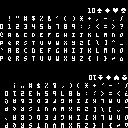
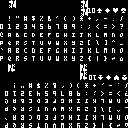
describe font solution and add new glyphs

diff --git a/libs/common/src/inner_common.rs b/libs/common/src/inner_common.rs
@@ -410,22 +410,22 @@ pub const FONT_FLIP: u8 = 128;
 
 #[cfg_attr(rustfmt, rustfmt_skip)]
 pub const FONT: [u8; FONT_LENGTH] = [
-0, 0, 0, 0, 0, 0, 0, 0, 0, 0, 0, 0, 0, 0, 0, 0, 0, 0, 0, 0, 0, 0, 0, 0, 0, 0, 0, 0, 0, 0, 0, 0, 0, 0, 0, 0, 0, 0, 0, 0, 0, 0, 0, 0, 0, 0, 0, 0, 0, 0, 0, 0, 0, 0, 0, 0, 0, 0, 0, 0, 0, 0, 0, 0, 0, 0, 0, 0, 0, 0, 0, 0, 0, 0, 0, 0, 0, 0, 0, 0, 0, 0, 0, 0, 0, 0, 0, 0, 0, 0, 0, 0, 0, 0, 0, 0, 0, 0, 0, 0, 0, 0, 0, 0, 0, 0, 0, 0, 0, 0, 0, 0, 0, 0, 0, 0, 0, 0, 0, 0, 0, 0, 0, 0, 0, 0, 0, 0,
-0, 0, 0, 0, 0, 0, 0, 0, 0, 0, 0, 0, 0, 0, 0, 0, 0, 0, 0, 0, 0, 0, 0, 0, 0, 0, 0, 0, 0, 0, 0, 0, 0, 0, 0, 0, 0, 0, 0, 0, 0, 0, 0, 0, 0, 0, 0, 0, 0, 0, 0, 0, 0, 0, 0, 0, 0, 0, 0, 0, 0, 0, 0, 0, 0, 0, 0, 0, 0, 0, 0, 0, 0, 0, 0, 0, 0, 0, 0, 0, 0, 0, 0, 0, 0, 0, 0, 0, 0, 0, 0, 0, 0, 0, 0, 0, 0, 0, 0, 0, 0, 0, 0, 0, 0, 0, 0, 0, 0, 0, 0, 0, 0, 0, 0, 0, 0, 0, 0, 0, 0, 0, 0, 0, 0, 0, 0, 0,
-0, 0, 0, 0, 0, 0, 0, 0, 0, 0, 0, 0, 0, 0, 0, 0, 0, 0, 0, 0, 0, 0, 0, 0, 0, 0, 0, 0, 0, 0, 0, 0, 0, 0, 0, 0, 0, 0, 0, 0, 0, 0, 0, 0, 0, 0, 0, 0, 0, 0, 0, 0, 0, 0, 0, 0, 0, 0, 0, 0, 0, 0, 0, 0, 0, 0, 0, 0, 0, 0, 0, 0, 0, 0, 0, 0, 0, 0, 0, 0, 0, 0, 0, 0, 0, 0, 0, 0, 0, 0, 0, 0, 0, 0, 0, 0, 0, 0, 0, 0, 0, 0, 0, 0, 0, 0, 0, 0, 0, 0, 0, 0, 0, 0, 0, 0, 0, 0, 0, 0, 0, 0, 0, 0, 0, 0, 0, 0,
-0, 0, 0, 0, 0, 0, 0, 0, 0, 0, 0, 0, 0, 0, 0, 0, 0, 0, 0, 0, 0, 0, 0, 0, 0, 0, 0, 0, 0, 0, 0, 0, 0, 0, 0, 0, 0, 0, 0, 0, 0, 0, 0, 0, 0, 0, 0, 0, 0, 0, 0, 0, 0, 0, 0, 0, 0, 0, 0, 0, 0, 0, 0, 0, 0, 0, 0, 0, 0, 0, 0, 0, 0, 0, 0, 0, 0, 0, 0, 0, 0, 0, 0, 0, 0, 0, 0, 0, 0, 0, 0, 0, 0, 0, 0, 0, 0, 0, 0, 0, 0, 0, 0, 0, 0, 0, 0, 0, 0, 0, 0, 0, 0, 0, 0, 0, 0, 0, 0, 0, 0, 0, 0, 0, 0, 0, 0, 0,
-0, 0, 0, 0, 0, 0, 0, 0, 0, 0, 0, 0, 0, 0, 0, 0, 0, 0, 0, 0, 0, 0, 0, 0, 0, 0, 0, 0, 0, 0, 0, 0, 0, 0, 0, 0, 0, 0, 0, 0, 0, 0, 0, 0, 0, 0, 0, 0, 0, 0, 0, 0, 0, 0, 0, 0, 0, 0, 0, 0, 0, 0, 0, 0, 0, 0, 0, 0, 0, 0, 0, 0, 0, 0, 0, 0, 0, 0, 0, 0, 0, 0, 0, 0, 0, 0, 0, 0, 0, 0, 0, 0, 0, 0, 0, 0, 0, 0, 0, 0, 0, 0, 0, 0, 0, 0, 0, 0, 0, 0, 0, 0, 0, 0, 0, 0, 0, 0, 0, 0, 0, 0, 0, 0, 0, 0, 0, 0,
-0, 0, 0, 0, 0, 0, 0, 0, 0, 0, 0, 0, 0, 0, 0, 0, 0, 0, 0, 0, 0, 0, 0, 0, 0, 0, 0, 0, 0, 0, 0, 0, 0, 0, 0, 0, 0, 0, 0, 0, 0, 0, 0, 0, 0, 0, 0, 0, 0, 0, 0, 0, 0, 0, 0, 0, 0, 0, 0, 0, 0, 0, 0, 0, 0, 0, 0, 0, 0, 0, 0, 0, 0, 0, 0, 0, 0, 0, 0, 0, 0, 0, 0, 0, 0, 0, 0, 0, 0, 0, 0, 0, 0, 0, 0, 0, 0, 0, 0, 0, 0, 0, 0, 0, 0, 0, 0, 0, 0, 0, 0, 0, 0, 0, 0, 0, 0, 0, 0, 0, 0, 0, 0, 0, 0, 0, 0, 0,
-0, 0, 0, 0, 0, 0, 0, 0, 0, 0, 0, 0, 0, 0, 0, 0, 0, 0, 0, 0, 0, 0, 0, 0, 0, 0, 0, 0, 0, 0, 0, 0, 0, 0, 0, 0, 0, 0, 0, 0, 0, 0, 0, 0, 0, 0, 0, 0, 0, 0, 0, 0, 0, 0, 0, 0, 0, 0, 0, 0, 0, 0, 0, 0, 0, 0, 0, 0, 0, 0, 0, 0, 0, 0, 0, 0, 0, 0, 0, 0, 0, 0, 0, 0, 0, 0, 0, 0, 0, 0, 0, 0, 0, 0, 0, 0, 0, 0, 0, 0, 0, 0, 0, 0, 0, 0, 0, 0, 0, 0, 0, 0, 0, 0, 0, 0, 0, 0, 0, 0, 0, 0, 0, 0, 0, 0, 0, 0,
-0, 0, 0, 0, 0, 0, 0, 0, 0, 0, 0, 0, 0, 0, 0, 0, 0, 0, 0, 0, 0, 0, 0, 0, 0, 0, 0, 0, 0, 0, 0, 0, 0, 0, 0, 0, 0, 0, 0, 0, 0, 0, 0, 0, 0, 0, 0, 0, 0, 0, 0, 0, 0, 0, 0, 0, 0, 0, 0, 0, 0, 0, 0, 0, 0, 0, 0, 0, 0, 0, 0, 0, 0, 0, 0, 0, 0, 0, 0, 0, 0, 0, 0, 0, 0, 0, 0, 0, 0, 0, 0, 0, 0, 0, 0, 0, 0, 0, 0, 0, 0, 0, 0, 0, 0, 0, 0, 0, 0, 0, 0, 0, 0, 0, 0, 0, 0, 0, 0, 0, 0, 0, 0, 0, 0, 0, 0, 0,
-0, 0, 0, 0, 0, 0, 0, 0, 0, 0, 0, 0, 0, 0, 0, 0, 0, 0, 0, 0, 0, 0, 0, 0, 0, 0, 0, 0, 0, 0, 0, 0, 0, 0, 0, 0, 0, 0, 0, 0, 0, 0, 0, 0, 0, 0, 0, 0, 0, 0, 0, 0, 0, 0, 0, 0, 0, 0, 0, 0, 0, 0, 0, 0, 0, 0, 0, 0, 0, 0, 0, 0, 0, 0, 0, 0, 0, 0, 0, 0, 0, 0, 0, 0, 0, 0, 0, 0, 6, 6, 0, 0, 6, 6, 6, 0, 0, 0, 0, 6, 0, 0, 0, 0, 0, 0, 0, 6, 0, 0, 0, 0, 0, 6, 6, 0, 6, 6, 0, 0, 0, 0, 6, 6, 6, 0, 0, 0,
-0, 0, 0, 0, 0, 0, 0, 0, 0, 0, 0, 0, 0, 0, 0, 0, 0, 0, 0, 0, 0, 0, 0, 0, 0, 0, 0, 0, 0, 0, 0, 0, 0, 0, 0, 0, 0, 0, 0, 0, 0, 0, 0, 0, 0, 0, 0, 0, 0, 0, 0, 0, 0, 0, 0, 0, 0, 0, 0, 0, 0, 0, 0, 0, 0, 0, 0, 0, 0, 0, 0, 0, 0, 0, 0, 0, 0, 0, 0, 0, 0, 0, 0, 0, 0, 0, 0, 0, 0, 6, 0, 0, 6, 0, 6, 0, 0, 0, 6, 6, 6, 0, 0, 0, 0, 0, 6, 6, 6, 0, 0, 0, 0, 6, 6, 6, 6, 6, 0, 0, 0, 6, 6, 6, 6, 6, 0, 0,
-0, 0, 0, 0, 0, 0, 0, 0, 0, 0, 0, 0, 0, 0, 0, 0, 0, 0, 0, 0, 0, 0, 0, 0, 0, 0, 0, 0, 0, 0, 0, 0, 0, 0, 0, 0, 0, 0, 0, 0, 0, 0, 0, 0, 0, 0, 0, 0, 0, 0, 0, 0, 0, 0, 0, 0, 0, 0, 0, 0, 0, 0, 0, 0, 0, 0, 0, 0, 0, 0, 0, 0, 0, 0, 0, 0, 0, 0, 0, 0, 0, 0, 0, 0, 0, 0, 0, 0, 0, 6, 0, 0, 6, 0, 6, 0, 0, 6, 6, 6, 6, 6, 0, 0, 0, 6, 6, 6, 6, 6, 0, 0, 0, 6, 6, 6, 6, 6, 0, 0, 0, 6, 6, 0, 6, 6, 0, 0,
-0, 0, 0, 0, 0, 0, 0, 0, 0, 0, 0, 0, 0, 0, 0, 0, 0, 0, 0, 0, 0, 0, 0, 0, 0, 0, 0, 0, 0, 0, 0, 0, 0, 0, 0, 0, 0, 0, 0, 0, 0, 0, 0, 0, 0, 0, 0, 0, 0, 0, 0, 0, 0, 0, 0, 0, 0, 0, 0, 0, 0, 0, 0, 0, 0, 0, 0, 0, 0, 0, 0, 0, 0, 0, 0, 0, 0, 0, 0, 0, 0, 0, 0, 0, 0, 0, 0, 0, 0, 6, 0, 0, 6, 0, 6, 0, 0, 0, 0, 6, 0, 0, 0, 0, 0, 0, 6, 6, 6, 0, 0, 0, 0, 0, 6, 6, 6, 0, 0, 0, 0, 0, 0, 6, 0, 0, 0, 0,
-0, 0, 0, 0, 0, 0, 0, 0, 0, 0, 0, 0, 0, 0, 0, 0, 0, 0, 0, 0, 0, 0, 0, 0, 0, 0, 0, 0, 0, 0, 0, 0, 0, 0, 0, 0, 0, 0, 0, 0, 0, 0, 0, 0, 0, 0, 0, 0, 0, 0, 0, 0, 0, 0, 0, 0, 0, 0, 0, 0, 0, 0, 0, 0, 0, 0, 0, 0, 0, 0, 0, 0, 0, 0, 0, 0, 0, 0, 0, 0, 0, 0, 0, 0, 0, 0, 0, 0, 6, 6, 6, 0, 6, 6, 6, 0, 0, 0, 6, 6, 6, 0, 0, 0, 0, 0, 0, 6, 0, 0, 0, 0, 0, 0, 0, 6, 0, 0, 0, 0, 0, 0, 6, 6, 6, 0, 0, 0,
-0, 0, 0, 0, 0, 0, 0, 0, 0, 0, 0, 0, 0, 0, 0, 0, 0, 0, 0, 0, 0, 0, 0, 0, 0, 0, 0, 0, 0, 0, 0, 0, 0, 0, 0, 0, 0, 0, 0, 0, 0, 0, 0, 0, 0, 0, 0, 0, 0, 0, 0, 0, 0, 0, 0, 0, 0, 0, 0, 0, 0, 0, 0, 0, 0, 0, 0, 0, 0, 0, 0, 0, 0, 0, 0, 0, 0, 0, 0, 0, 0, 0, 0, 0, 0, 0, 0, 0, 0, 0, 0, 0, 0, 0, 0, 0, 0, 0, 0, 0, 0, 0, 0, 0, 0, 0, 0, 0, 0, 0, 0, 0, 0, 0, 0, 0, 0, 0, 0, 0, 0, 0, 0, 0, 0, 0, 0, 0,
-0, 0, 0, 0, 0, 0, 0, 0, 0, 0, 0, 0, 0, 0, 0, 0, 0, 0, 0, 0, 0, 0, 0, 0, 0, 0, 0, 0, 0, 0, 0, 0, 0, 0, 0, 0, 0, 0, 0, 0, 0, 0, 0, 0, 0, 0, 0, 0, 0, 0, 0, 0, 0, 0, 0, 0, 0, 0, 0, 0, 0, 0, 0, 0, 0, 0, 0, 0, 0, 0, 0, 0, 0, 0, 0, 0, 0, 0, 0, 0, 0, 0, 0, 0, 0, 0, 0, 0, 0, 0, 0, 0, 0, 0, 0, 0, 0, 0, 0, 0, 0, 0, 0, 0, 0, 0, 0, 0, 0, 0, 0, 0, 0, 0, 0, 0, 0, 0, 0, 0, 0, 0, 0, 0, 0, 0, 0, 0,
-0, 0, 0, 0, 0, 0, 0, 0, 0, 0, 0, 0, 0, 0, 0, 0, 0, 0, 0, 0, 0, 0, 0, 0, 0, 0, 0, 0, 0, 0, 0, 0, 0, 0, 0, 0, 0, 0, 0, 0, 0, 0, 0, 0, 0, 0, 0, 0, 0, 0, 0, 0, 0, 0, 0, 0, 0, 0, 0, 0, 0, 0, 0, 0, 0, 0, 0, 0, 0, 0, 0, 0, 0, 0, 0, 0, 0, 0, 0, 0, 0, 0, 0, 0, 0, 0, 0, 0, 0, 0, 0, 0, 0, 0, 0, 0, 0, 0, 0, 0, 0, 0, 0, 0, 0, 0, 0, 0, 0, 0, 0, 0, 0, 0, 0, 0, 0, 0, 0, 0, 0, 0, 0, 0, 0, 0, 0, 0,
+0, 0, 0, 0, 0, 0, 0, 0, 0, 0, 0, 6, 0, 0, 0, 6, 0, 0, 0, 0, 0, 0, 0, 0, 0, 0, 0, 0, 0, 0, 0, 0, 0, 0, 0, 0, 0, 0, 0, 0, 0, 0, 0, 0, 0, 0, 0, 0, 0, 0, 0, 0, 0, 0, 0, 0, 0, 0, 0, 0, 0, 0, 0, 0, 0, 0, 0, 0, 0, 0, 0, 0, 0, 0, 0, 0, 0, 0, 0, 0, 0, 0, 0, 6, 0, 0, 0, 6, 0, 0, 0, 0, 0, 0, 0, 0, 0, 0, 0, 0, 0, 0, 0, 0, 0, 0, 0, 0, 0, 0, 0, 0, 0, 0, 0, 0, 0, 0, 0, 0, 0, 0, 0, 0, 0, 0, 0, 0,
+0, 0, 0, 0, 0, 0, 0, 0, 0, 6, 6, 6, 6, 0, 6, 6, 0, 0, 0, 0, 0, 0, 0, 0, 0, 0, 0, 0, 0, 0, 0, 0, 0, 0, 0, 0, 0, 0, 0, 0, 0, 0, 0, 0, 0, 0, 0, 0, 0, 0, 0, 0, 0, 0, 0, 0, 0, 0, 0, 0, 0, 0, 0, 0, 0, 0, 0, 0, 0, 0, 0, 0, 0, 0, 0, 0, 0, 0, 0, 0, 0, 6, 6, 6, 6, 0, 6, 6, 0, 0, 0, 0, 0, 0, 0, 0, 0, 0, 0, 0, 0, 0, 0, 0, 0, 0, 0, 0, 0, 0, 0, 0, 0, 0, 0, 0, 0, 0, 0, 0, 0, 0, 0, 0, 0, 0, 0, 0,
+0, 0, 0, 0, 0, 0, 0, 0, 0, 6, 6, 6, 6, 0, 6, 6, 0, 0, 0, 0, 0, 0, 0, 0, 0, 0, 0, 0, 0, 0, 0, 0, 0, 0, 0, 0, 0, 0, 0, 0, 0, 0, 0, 0, 0, 0, 0, 0, 0, 0, 0, 0, 0, 0, 0, 0, 0, 0, 0, 0, 0, 0, 0, 0, 0, 0, 0, 0, 0, 0, 0, 0, 0, 0, 0, 0, 0, 0, 0, 0, 0, 6, 6, 6, 6, 0, 6, 6, 0, 0, 0, 0, 0, 0, 0, 0, 0, 0, 0, 0, 0, 0, 0, 0, 0, 0, 0, 0, 0, 0, 0, 0, 0, 0, 0, 0, 0, 0, 0, 0, 0, 0, 0, 0, 0, 0, 0, 0,
+0, 0, 0, 0, 0, 0, 0, 0, 0, 0, 0, 6, 6, 0, 6, 6, 0, 0, 0, 0, 0, 0, 0, 0, 0, 0, 0, 0, 0, 0, 0, 0, 0, 0, 0, 0, 0, 0, 0, 0, 0, 0, 0, 0, 0, 0, 0, 0, 0, 0, 0, 0, 0, 0, 0, 0, 0, 0, 0, 0, 0, 0, 0, 0, 0, 0, 0, 0, 0, 0, 0, 0, 0, 0, 0, 0, 0, 0, 0, 0, 0, 0, 0, 6, 6, 0, 6, 6, 0, 0, 0, 0, 0, 0, 0, 0, 0, 0, 0, 0, 0, 0, 0, 0, 0, 0, 0, 0, 0, 0, 0, 0, 0, 0, 0, 0, 0, 0, 0, 0, 0, 0, 0, 0, 0, 0, 0, 0,
+0, 0, 0, 0, 0, 0, 0, 0, 0, 0, 0, 6, 0, 6, 6, 6, 0, 0, 0, 0, 0, 0, 0, 0, 0, 0, 0, 0, 0, 0, 0, 0, 0, 0, 0, 0, 0, 0, 0, 0, 0, 0, 0, 0, 0, 0, 0, 0, 0, 0, 0, 0, 0, 0, 0, 0, 0, 0, 0, 0, 0, 0, 0, 0, 0, 0, 0, 0, 0, 0, 0, 0, 0, 0, 0, 0, 0, 0, 0, 0, 0, 0, 0, 6, 0, 6, 6, 6, 0, 0, 0, 0, 0, 0, 0, 0, 0, 0, 0, 0, 0, 0, 0, 0, 0, 0, 0, 0, 0, 0, 0, 0, 0, 0, 0, 0, 0, 0, 0, 0, 0, 0, 0, 0, 0, 0, 0, 0,
+0, 0, 0, 0, 0, 0, 0, 0, 0, 6, 0, 6, 0, 6, 6, 6, 0, 0, 0, 0, 0, 0, 0, 0, 0, 0, 0, 0, 0, 0, 0, 0, 0, 0, 0, 0, 0, 0, 0, 0, 0, 0, 0, 0, 0, 0, 0, 0, 0, 0, 0, 0, 0, 0, 0, 0, 0, 0, 0, 0, 0, 0, 0, 0, 0, 0, 0, 0, 0, 0, 0, 0, 0, 0, 0, 0, 0, 0, 0, 0, 0, 6, 0, 6, 0, 6, 6, 6, 0, 0, 0, 0, 0, 0, 0, 0, 0, 0, 0, 0, 0, 0, 0, 0, 0, 0, 0, 0, 0, 0, 0, 0, 0, 0, 0, 0, 0, 0, 0, 0, 0, 0, 0, 0, 0, 0, 0, 0,
+0, 0, 0, 0, 0, 0, 0, 0, 0, 0, 6, 6, 0, 6, 6, 6, 0, 0, 0, 0, 0, 0, 0, 0, 0, 0, 0, 0, 0, 0, 0, 0, 0, 0, 0, 0, 0, 0, 0, 0, 0, 0, 0, 0, 0, 0, 0, 0, 0, 0, 0, 0, 0, 0, 0, 0, 0, 0, 0, 0, 0, 0, 0, 0, 0, 0, 0, 0, 0, 0, 0, 0, 0, 0, 0, 0, 0, 0, 0, 0, 0, 0, 6, 6, 0, 6, 6, 6, 0, 0, 0, 0, 0, 0, 0, 0, 0, 0, 0, 0, 0, 0, 0, 0, 0, 0, 0, 0, 0, 0, 0, 0, 0, 0, 0, 0, 0, 0, 0, 0, 0, 0, 0, 0, 0, 0, 0, 0,
+0, 0, 0, 0, 0, 0, 0, 0, 0, 6, 0, 6, 0, 0, 0, 6, 0, 0, 0, 0, 0, 0, 0, 0, 0, 0, 0, 0, 0, 0, 0, 0, 0, 0, 0, 0, 0, 0, 0, 0, 0, 0, 0, 0, 0, 0, 0, 0, 0, 0, 0, 0, 0, 0, 0, 0, 0, 0, 0, 0, 0, 0, 0, 0, 0, 0, 0, 0, 0, 0, 0, 0, 0, 0, 0, 0, 0, 0, 0, 0, 0, 6, 0, 6, 0, 0, 0, 6, 0, 0, 0, 0, 0, 0, 0, 0, 0, 0, 0, 0, 0, 0, 0, 0, 0, 0, 0, 0, 0, 0, 0, 0, 0, 0, 0, 0, 0, 0, 0, 0, 0, 0, 0, 0, 0, 0, 0, 0,
+0, 0, 0, 0, 0, 0, 0, 0, 0, 0, 0, 0, 0, 0, 0, 0, 0, 0, 0, 0, 0, 0, 0, 0, 0, 0, 0, 0, 0, 0, 0, 0, 0, 0, 0, 0, 0, 0, 0, 0, 0, 0, 0, 0, 0, 0, 0, 0, 0, 0, 0, 0, 0, 0, 0, 0, 0, 0, 0, 0, 0, 0, 0, 0, 0, 0, 0, 0, 0, 0, 0, 0, 0, 0, 0, 0, 0, 0, 0, 0, 0, 0, 0, 6, 0, 0, 0, 6, 6, 6, 0, 0, 6, 6, 6, 0, 0, 0, 0, 6, 0, 0, 0, 0, 0, 0, 0, 6, 0, 0, 0, 0, 0, 6, 6, 0, 6, 6, 0, 0, 0, 0, 6, 6, 6, 0, 0, 0,
+0, 0, 0, 0, 0, 0, 0, 0, 0, 0, 0, 0, 0, 0, 0, 0, 0, 0, 0, 0, 0, 0, 0, 0, 0, 0, 0, 0, 0, 0, 0, 0, 0, 0, 0, 0, 0, 0, 0, 0, 0, 0, 0, 0, 0, 0, 0, 0, 0, 0, 0, 0, 0, 0, 0, 0, 0, 0, 0, 0, 0, 0, 0, 0, 0, 0, 0, 0, 0, 0, 0, 0, 0, 0, 0, 0, 0, 0, 0, 0, 0, 6, 6, 6, 6, 0, 6, 6, 0, 6, 0, 0, 6, 0, 6, 0, 0, 0, 6, 6, 6, 0, 0, 0, 0, 0, 6, 6, 6, 0, 0, 0, 0, 6, 6, 6, 6, 6, 0, 0, 0, 6, 6, 6, 6, 6, 0, 0,
+0, 0, 0, 0, 0, 0, 0, 0, 0, 0, 0, 0, 0, 0, 0, 0, 0, 0, 0, 0, 0, 0, 0, 0, 0, 0, 0, 0, 0, 0, 0, 0, 0, 0, 0, 0, 0, 0, 0, 0, 0, 0, 0, 0, 0, 0, 0, 0, 0, 0, 0, 0, 0, 0, 0, 0, 0, 0, 0, 0, 0, 0, 0, 0, 0, 0, 0, 0, 0, 0, 0, 0, 0, 0, 0, 0, 0, 0, 0, 0, 0, 6, 6, 6, 6, 0, 6, 6, 0, 6, 0, 0, 6, 0, 6, 0, 0, 6, 6, 6, 6, 6, 0, 0, 0, 6, 6, 6, 6, 6, 0, 0, 0, 6, 6, 6, 6, 6, 0, 0, 0, 6, 6, 0, 6, 6, 0, 0,
+0, 0, 0, 0, 0, 0, 0, 0, 0, 0, 0, 0, 0, 0, 0, 0, 0, 0, 0, 0, 0, 0, 0, 0, 0, 0, 0, 0, 0, 0, 0, 0, 0, 0, 0, 0, 0, 0, 0, 0, 0, 0, 0, 0, 0, 0, 0, 0, 0, 0, 0, 0, 0, 0, 0, 0, 0, 0, 0, 0, 0, 0, 0, 0, 0, 0, 0, 0, 0, 0, 0, 0, 0, 0, 0, 0, 0, 0, 0, 0, 0, 0, 0, 6, 6, 0, 6, 6, 0, 6, 0, 0, 6, 0, 6, 0, 0, 0, 0, 6, 0, 0, 0, 0, 0, 0, 6, 6, 6, 0, 0, 0, 0, 0, 6, 6, 6, 0, 0, 0, 0, 0, 0, 6, 0, 0, 0, 0,
+0, 0, 0, 0, 0, 0, 0, 0, 0, 0, 0, 0, 0, 0, 0, 0, 0, 0, 0, 0, 0, 0, 0, 0, 0, 0, 0, 0, 0, 0, 0, 0, 0, 0, 0, 0, 0, 0, 0, 0, 0, 0, 0, 0, 0, 0, 0, 0, 0, 0, 0, 0, 0, 0, 0, 0, 0, 0, 0, 0, 0, 0, 0, 0, 0, 0, 0, 0, 0, 0, 0, 0, 0, 0, 0, 0, 0, 0, 0, 0, 0, 0, 0, 6, 0, 6, 6, 6, 6, 6, 6, 0, 6, 6, 6, 0, 0, 0, 6, 6, 6, 0, 0, 0, 0, 0, 0, 6, 0, 0, 0, 0, 0, 0, 0, 6, 0, 0, 0, 0, 0, 0, 6, 6, 6, 0, 0, 0,
+0, 0, 0, 0, 0, 0, 0, 0, 0, 0, 0, 0, 0, 0, 0, 0, 0, 0, 0, 0, 0, 0, 0, 0, 0, 0, 0, 0, 0, 0, 0, 0, 0, 0, 0, 0, 0, 0, 0, 0, 0, 0, 0, 0, 0, 0, 0, 0, 0, 0, 0, 0, 0, 0, 0, 0, 0, 0, 0, 0, 0, 0, 0, 0, 0, 0, 0, 0, 0, 0, 0, 0, 0, 0, 0, 0, 0, 0, 0, 0, 0, 6, 0, 6, 0, 6, 6, 6, 0, 0, 0, 0, 0, 0, 0, 0, 0, 0, 0, 0, 0, 0, 0, 0, 0, 0, 0, 0, 0, 0, 0, 0, 0, 0, 0, 0, 0, 0, 0, 0, 0, 0, 0, 0, 0, 0, 0, 0,
+0, 0, 0, 0, 0, 0, 0, 0, 0, 0, 0, 0, 0, 0, 0, 0, 0, 0, 0, 0, 0, 0, 0, 0, 0, 0, 0, 0, 0, 0, 0, 0, 0, 0, 0, 0, 0, 0, 0, 0, 0, 0, 0, 0, 0, 0, 0, 0, 0, 0, 0, 0, 0, 0, 0, 0, 0, 0, 0, 0, 0, 0, 0, 0, 0, 0, 0, 0, 0, 0, 0, 0, 0, 0, 0, 0, 0, 0, 0, 0, 0, 0, 6, 6, 0, 6, 6, 6, 0, 0, 0, 0, 0, 0, 0, 0, 0, 0, 0, 0, 0, 0, 0, 0, 0, 0, 0, 0, 0, 0, 0, 0, 0, 0, 0, 0, 0, 0, 0, 0, 0, 0, 0, 0, 0, 0, 0, 0,
+0, 0, 0, 0, 0, 0, 0, 0, 0, 0, 0, 0, 0, 0, 0, 0, 0, 0, 0, 0, 0, 0, 0, 0, 0, 0, 0, 0, 0, 0, 0, 0, 0, 0, 0, 0, 0, 0, 0, 0, 0, 0, 0, 0, 0, 0, 0, 0, 0, 0, 0, 0, 0, 0, 0, 0, 0, 0, 0, 0, 0, 0, 0, 0, 0, 0, 0, 0, 0, 0, 0, 0, 0, 0, 0, 0, 0, 0, 0, 0, 0, 6, 0, 6, 0, 0, 0, 6, 0, 0, 0, 0, 0, 0, 0, 0, 0, 0, 0, 0, 0, 0, 0, 0, 0, 0, 0, 0, 0, 0, 0, 0, 0, 0, 0, 0, 0, 0, 0, 0, 0, 0, 0, 0, 0, 0, 0, 0,
 0, 0, 0, 0, 0, 0, 0, 0, 0, 6, 0, 0, 0, 0, 0, 0, 6, 0, 6, 0, 0, 0, 0, 0, 6, 0, 6, 0, 0, 0, 0, 0, 6, 6, 6, 0, 0, 0, 0, 0, 6, 0, 6, 0, 0, 0, 0, 0, 6, 6, 0, 0, 0, 0, 0, 0, 0, 6, 0, 0, 0, 0, 0, 0, 0, 6, 0, 0, 0, 0, 0, 0, 0, 6, 0, 0, 0, 0, 0, 0, 6, 0, 6, 0, 0, 0, 0, 0, 0, 0, 0, 0, 0, 0, 0, 0, 0, 0, 0, 0, 0, 0, 0, 0, 0, 0, 0, 0, 0, 0, 0, 0, 0, 0, 0, 0, 0, 0, 0, 0, 0, 0, 6, 0, 0, 0, 0, 0,
 0, 0, 0, 0, 0, 0, 0, 0, 0, 6, 0, 0, 0, 0, 0, 0, 6, 0, 6, 0, 0, 0, 0, 0, 6, 6, 6, 0, 0, 0, 0, 0, 6, 6, 0, 0, 0, 0, 0, 0, 0, 0, 6, 0, 0, 0, 0, 0, 6, 6, 0, 0, 0, 0, 0, 0, 6, 0, 0, 0, 0, 0, 0, 0, 6, 0, 0, 0, 0, 0, 0, 0, 0, 0, 6, 0, 0, 0, 0, 0, 0, 6, 0, 0, 0, 0, 0, 0, 0, 6, 0, 0, 0, 0, 0, 0, 0, 0, 0, 0, 0, 0, 0, 0, 0, 0, 0, 0, 0, 0, 0, 0, 0, 0, 0, 0, 0, 0, 0, 0, 0, 6, 0, 0, 0, 0, 0, 0,
 0, 0, 0, 0, 0, 0, 0, 0, 0, 6, 0, 0, 0, 0, 0, 0, 0, 0, 0, 0, 0, 0, 0, 0, 6, 0, 6, 0, 0, 0, 0, 0, 0, 6, 6, 0, 0, 0, 0, 0, 0, 6, 0, 0, 0, 0, 0, 0, 6, 6, 0, 0, 0, 0, 0, 0, 0, 0, 0, 0, 0, 0, 0, 0, 6, 0, 0, 0, 0, 0, 0, 0, 0, 0, 6, 0, 0, 0, 0, 0, 6, 6, 6, 0, 0, 0, 0, 0, 6, 6, 6, 0, 0, 0, 0, 0, 0, 0, 0, 0, 0, 0, 0, 0, 6, 6, 6, 0, 0, 0, 0, 0, 0, 0, 0, 0, 0, 0, 0, 0, 0, 6, 0, 0, 0, 0, 0, 0,
@@ -474,22 +474,22 @@ pub const FONT: [u8; FONT_LENGTH] = [
 0, 0, 0, 0, 0, 0, 0, 0, 0, 0, 0, 0, 0, 0, 0, 0, 0, 0, 0, 0, 0, 0, 0, 0, 0, 0, 0, 0, 0, 0, 0, 0, 0, 0, 0, 0, 0, 0, 0, 0, 0, 0, 0, 0, 0, 0, 0, 0, 0, 0, 0, 0, 0, 0, 0, 0, 0, 0, 0, 0, 0, 0, 0, 0, 0, 0, 0, 0, 0, 0, 0, 0, 0, 0, 0, 0, 0, 0, 0, 0, 0, 0, 0, 0, 0, 0, 0, 0, 0, 0, 0, 0, 0, 0, 0, 0, 0, 0, 0, 0, 0, 0, 0, 0, 0, 0, 0, 0, 0, 0, 0, 0, 0, 0, 0, 0, 0, 0, 0, 0, 0, 0, 0, 0, 0, 0, 0, 0,
 0, 0, 0, 0, 0, 0, 0, 0, 0, 0, 0, 0, 0, 0, 0, 0, 0, 0, 0, 0, 0, 0, 0, 0, 0, 0, 0, 0, 0, 0, 0, 0, 0, 0, 0, 0, 0, 0, 0, 0, 0, 0, 0, 0, 0, 0, 0, 0, 0, 0, 0, 0, 0, 0, 0, 0, 0, 0, 0, 0, 0, 0, 0, 0, 0, 0, 0, 0, 0, 0, 0, 0, 0, 0, 0, 0, 0, 0, 0, 0, 0, 0, 0, 0, 0, 0, 0, 0, 0, 0, 0, 0, 0, 0, 0, 0, 0, 0, 0, 0, 0, 0, 0, 0, 0, 0, 0, 0, 0, 0, 0, 0, 0, 0, 0, 0, 0, 0, 0, 0, 0, 0, 0, 0, 0, 0, 0, 0,
 0, 0, 0, 0, 0, 0, 0, 0, 0, 0, 0, 0, 0, 0, 0, 0, 0, 0, 0, 0, 0, 0, 0, 0, 0, 0, 0, 0, 0, 0, 0, 0, 0, 0, 0, 0, 0, 0, 0, 0, 0, 0, 0, 0, 0, 0, 0, 0, 0, 0, 0, 0, 0, 0, 0, 0, 0, 0, 0, 0, 0, 0, 0, 0, 0, 0, 0, 0, 0, 0, 0, 0, 0, 0, 0, 0, 0, 0, 0, 0, 0, 0, 0, 0, 0, 0, 0, 0, 0, 0, 0, 0, 0, 0, 0, 0, 0, 0, 0, 0, 0, 0, 0, 0, 0, 0, 0, 0, 0, 0, 0, 0, 0, 0, 0, 0, 0, 0, 0, 0, 0, 0, 0, 0, 0, 0, 0, 0,
-0, 0, 0, 0, 0, 0, 0, 0, 0, 0, 0, 0, 0, 0, 0, 0, 0, 0, 0, 0, 0, 0, 0, 0, 0, 0, 0, 0, 0, 0, 0, 0, 0, 0, 0, 0, 0, 0, 0, 0, 0, 0, 0, 0, 0, 0, 0, 0, 0, 0, 0, 0, 0, 0, 0, 0, 0, 0, 0, 0, 0, 0, 0, 0, 0, 0, 0, 0, 0, 0, 0, 0, 0, 0, 0, 0, 0, 0, 0, 0, 0, 0, 0, 0, 0, 0, 0, 0, 0, 0, 0, 0, 0, 0, 0, 0, 0, 0, 0, 0, 0, 0, 0, 0, 0, 0, 0, 0, 0, 0, 0, 0, 0, 0, 0, 0, 0, 0, 0, 0, 0, 0, 0, 0, 0, 0, 0, 0,
-0, 0, 0, 0, 0, 0, 0, 0, 0, 0, 0, 0, 0, 0, 0, 0, 0, 0, 0, 0, 0, 0, 0, 0, 0, 0, 0, 0, 0, 0, 0, 0, 0, 0, 0, 0, 0, 0, 0, 0, 0, 0, 0, 0, 0, 0, 0, 0, 0, 0, 0, 0, 0, 0, 0, 0, 0, 0, 0, 0, 0, 0, 0, 0, 0, 0, 0, 0, 0, 0, 0, 0, 0, 0, 0, 0, 0, 0, 0, 0, 0, 0, 0, 0, 0, 0, 0, 0, 0, 0, 0, 0, 0, 0, 0, 0, 0, 0, 0, 0, 0, 0, 0, 0, 0, 0, 0, 0, 0, 0, 0, 0, 0, 0, 0, 0, 0, 0, 0, 0, 0, 0, 0, 0, 0, 0, 0, 0,
-0, 0, 0, 0, 0, 0, 0, 0, 0, 0, 0, 0, 0, 0, 0, 0, 0, 0, 0, 0, 0, 0, 0, 0, 0, 0, 0, 0, 0, 0, 0, 0, 0, 0, 0, 0, 0, 0, 0, 0, 0, 0, 0, 0, 0, 0, 0, 0, 0, 0, 0, 0, 0, 0, 0, 0, 0, 0, 0, 0, 0, 0, 0, 0, 0, 0, 0, 0, 0, 0, 0, 0, 0, 0, 0, 0, 0, 0, 0, 0, 0, 0, 0, 0, 0, 0, 0, 0, 0, 0, 0, 0, 0, 0, 0, 0, 0, 0, 0, 0, 0, 0, 0, 0, 0, 0, 0, 0, 0, 0, 0, 0, 0, 0, 0, 0, 0, 0, 0, 0, 0, 0, 0, 0, 0, 0, 0, 0,
-0, 0, 0, 0, 0, 0, 0, 0, 0, 0, 0, 0, 0, 0, 0, 0, 0, 0, 0, 0, 0, 0, 0, 0, 0, 0, 0, 0, 0, 0, 0, 0, 0, 0, 0, 0, 0, 0, 0, 0, 0, 0, 0, 0, 0, 0, 0, 0, 0, 0, 0, 0, 0, 0, 0, 0, 0, 0, 0, 0, 0, 0, 0, 0, 0, 0, 0, 0, 0, 0, 0, 0, 0, 0, 0, 0, 0, 0, 0, 0, 0, 0, 0, 0, 0, 0, 0, 0, 0, 0, 0, 0, 0, 0, 0, 0, 0, 0, 0, 0, 0, 0, 0, 0, 0, 0, 0, 0, 0, 0, 0, 0, 0, 0, 0, 0, 0, 0, 0, 0, 0, 0, 0, 0, 0, 0, 0, 0,
-0, 0, 0, 0, 0, 0, 0, 0, 0, 0, 0, 0, 0, 0, 0, 0, 0, 0, 0, 0, 0, 0, 0, 0, 0, 0, 0, 0, 0, 0, 0, 0, 0, 0, 0, 0, 0, 0, 0, 0, 0, 0, 0, 0, 0, 0, 0, 0, 0, 0, 0, 0, 0, 0, 0, 0, 0, 0, 0, 0, 0, 0, 0, 0, 0, 0, 0, 0, 0, 0, 0, 0, 0, 0, 0, 0, 0, 0, 0, 0, 0, 0, 0, 0, 0, 0, 0, 0, 0, 0, 0, 0, 0, 0, 0, 0, 0, 0, 0, 0, 0, 0, 0, 0, 0, 0, 0, 0, 0, 0, 0, 0, 0, 0, 0, 0, 0, 0, 0, 0, 0, 0, 0, 0, 0, 0, 0, 0,
-0, 0, 0, 0, 0, 0, 0, 0, 0, 0, 0, 0, 0, 0, 0, 0, 0, 0, 0, 0, 0, 0, 0, 0, 0, 0, 0, 0, 0, 0, 0, 0, 0, 0, 0, 0, 0, 0, 0, 0, 0, 0, 0, 0, 0, 0, 0, 0, 0, 0, 0, 0, 0, 0, 0, 0, 0, 0, 0, 0, 0, 0, 0, 0, 0, 0, 0, 0, 0, 0, 0, 0, 0, 0, 0, 0, 0, 0, 0, 0, 0, 0, 0, 0, 0, 0, 0, 0, 0, 0, 0, 0, 0, 0, 0, 0, 0, 0, 0, 0, 0, 0, 0, 0, 0, 0, 0, 0, 0, 0, 0, 0, 0, 0, 0, 0, 0, 0, 0, 0, 0, 0, 0, 0, 0, 0, 0, 0,
-0, 0, 0, 0, 0, 0, 0, 0, 0, 0, 0, 0, 0, 0, 0, 0, 0, 0, 0, 0, 0, 0, 0, 0, 0, 0, 0, 0, 0, 0, 0, 0, 0, 0, 0, 0, 0, 0, 0, 0, 0, 0, 0, 0, 0, 0, 0, 0, 0, 0, 0, 0, 0, 0, 0, 0, 0, 0, 0, 0, 0, 0, 0, 0, 0, 0, 0, 0, 0, 0, 0, 0, 0, 0, 0, 0, 0, 0, 0, 0, 0, 0, 0, 0, 0, 0, 0, 0, 0, 0, 0, 0, 0, 0, 0, 0, 0, 0, 0, 0, 0, 0, 0, 0, 0, 0, 0, 0, 0, 0, 0, 0, 0, 0, 0, 0, 0, 0, 0, 0, 0, 0, 0, 0, 0, 0, 0, 0,
-0, 0, 0, 0, 0, 0, 0, 0, 0, 0, 0, 0, 0, 0, 0, 0, 0, 0, 0, 0, 0, 0, 0, 0, 0, 0, 0, 0, 0, 0, 0, 0, 0, 0, 0, 0, 0, 0, 0, 0, 0, 0, 0, 0, 0, 0, 0, 0, 0, 0, 0, 0, 0, 0, 0, 0, 0, 0, 0, 0, 0, 0, 0, 0, 0, 0, 0, 0, 0, 0, 0, 0, 0, 0, 0, 0, 0, 0, 0, 0, 0, 0, 0, 0, 0, 0, 0, 0, 0, 0, 0, 0, 0, 0, 0, 0, 0, 0, 0, 0, 0, 0, 0, 0, 0, 0, 0, 0, 0, 0, 0, 0, 0, 0, 0, 0, 0, 0, 0, 0, 0, 0, 0, 0, 0, 0, 0, 0,
-0, 0, 0, 0, 0, 0, 0, 0, 0, 0, 0, 0, 0, 0, 0, 0, 0, 0, 0, 0, 0, 0, 0, 0, 0, 0, 0, 0, 0, 0, 0, 0, 0, 0, 0, 0, 0, 0, 0, 0, 0, 0, 0, 0, 0, 0, 0, 0, 0, 0, 0, 0, 0, 0, 0, 0, 0, 0, 0, 0, 0, 0, 0, 0, 0, 0, 0, 0, 0, 0, 0, 0, 0, 0, 0, 0, 0, 0, 0, 0, 0, 0, 0, 0, 0, 0, 0, 0, 0, 0, 0, 0, 0, 0, 0, 0, 0, 0, 0, 0, 0, 0, 0, 0, 0, 0, 0, 0, 0, 0, 0, 0, 0, 0, 0, 0, 0, 0, 0, 0, 0, 0, 0, 0, 0, 0, 0, 0,
-0, 0, 0, 0, 0, 0, 0, 0, 0, 0, 0, 0, 0, 0, 0, 0, 0, 0, 0, 0, 0, 0, 0, 0, 0, 0, 0, 0, 0, 0, 0, 0, 0, 0, 0, 0, 0, 0, 0, 0, 0, 0, 0, 0, 0, 0, 0, 0, 0, 0, 0, 0, 0, 0, 0, 0, 0, 0, 0, 0, 0, 0, 0, 0, 0, 0, 0, 0, 0, 0, 0, 0, 0, 0, 0, 0, 0, 0, 0, 0, 0, 0, 0, 0, 0, 0, 0, 0, 0, 0, 0, 0, 0, 0, 0, 0, 0, 0, 0, 0, 0, 0, 0, 0, 0, 0, 0, 0, 0, 0, 0, 0, 0, 0, 0, 0, 0, 0, 0, 0, 0, 0, 0, 0, 0, 0, 0, 0,
-0, 0, 0, 0, 0, 0, 0, 0, 0, 0, 0, 0, 0, 0, 0, 0, 0, 0, 0, 0, 0, 0, 0, 0, 0, 0, 0, 0, 0, 0, 0, 0, 0, 0, 0, 0, 0, 0, 0, 0, 0, 0, 0, 0, 0, 0, 0, 0, 0, 0, 0, 0, 0, 0, 0, 0, 0, 0, 0, 0, 0, 0, 0, 0, 0, 0, 0, 0, 0, 0, 0, 0, 0, 0, 0, 0, 0, 0, 0, 0, 0, 0, 0, 0, 0, 0, 0, 0, 0, 0, 0, 0, 0, 0, 0, 0, 0, 0, 0, 0, 0, 0, 0, 0, 0, 0, 0, 0, 0, 0, 0, 0, 0, 0, 0, 0, 0, 0, 0, 0, 0, 0, 0, 0, 0, 0, 0, 0,
-0, 0, 0, 0, 0, 0, 0, 0, 0, 0, 0, 0, 0, 0, 0, 0, 0, 0, 0, 0, 0, 0, 0, 0, 0, 0, 0, 0, 0, 0, 0, 0, 0, 0, 0, 0, 0, 0, 0, 0, 0, 0, 0, 0, 0, 0, 0, 0, 0, 0, 0, 0, 0, 0, 0, 0, 0, 0, 0, 0, 0, 0, 0, 0, 0, 0, 0, 0, 0, 0, 0, 0, 0, 0, 0, 0, 0, 0, 0, 0, 0, 0, 0, 0, 0, 0, 0, 0, 0, 6, 6, 6, 0, 6, 6, 6, 0, 0, 0, 6, 6, 6, 0, 0, 0, 0, 0, 0, 6, 0, 0, 0, 0, 0, 0, 0, 6, 0, 0, 0, 0, 0, 0, 6, 6, 6, 0, 0,
-0, 0, 0, 0, 0, 0, 0, 0, 0, 0, 0, 0, 0, 0, 0, 0, 0, 0, 0, 0, 0, 0, 0, 0, 0, 0, 0, 0, 0, 0, 0, 0, 0, 0, 0, 0, 0, 0, 0, 0, 0, 0, 0, 0, 0, 0, 0, 0, 0, 0, 0, 0, 0, 0, 0, 0, 0, 0, 0, 0, 0, 0, 0, 0, 0, 0, 0, 0, 0, 0, 0, 0, 0, 0, 0, 0, 0, 0, 0, 0, 0, 0, 0, 0, 0, 0, 0, 0, 0, 6, 0, 6, 0, 0, 6, 0, 0, 0, 0, 0, 6, 0, 0, 0, 0, 0, 0, 6, 6, 6, 0, 0, 0, 0, 0, 6, 6, 6, 0, 0, 0, 0, 0, 0, 6, 0, 0, 0,
-0, 0, 0, 0, 0, 0, 0, 0, 0, 0, 0, 0, 0, 0, 0, 0, 0, 0, 0, 0, 0, 0, 0, 0, 0, 0, 0, 0, 0, 0, 0, 0, 0, 0, 0, 0, 0, 0, 0, 0, 0, 0, 0, 0, 0, 0, 0, 0, 0, 0, 0, 0, 0, 0, 0, 0, 0, 0, 0, 0, 0, 0, 0, 0, 0, 0, 0, 0, 0, 0, 0, 0, 0, 0, 0, 0, 0, 0, 0, 0, 0, 0, 0, 0, 0, 0, 0, 0, 0, 6, 0, 6, 0, 0, 6, 0, 0, 0, 6, 6, 6, 6, 6, 0, 0, 0, 6, 6, 6, 6, 6, 0, 0, 0, 6, 6, 6, 6, 6, 0, 0, 0, 6, 6, 0, 6, 6, 0,
-0, 0, 0, 0, 0, 0, 0, 0, 0, 0, 0, 0, 0, 0, 0, 0, 0, 0, 0, 0, 0, 0, 0, 0, 0, 0, 0, 0, 0, 0, 0, 0, 0, 0, 0, 0, 0, 0, 0, 0, 0, 0, 0, 0, 0, 0, 0, 0, 0, 0, 0, 0, 0, 0, 0, 0, 0, 0, 0, 0, 0, 0, 0, 0, 0, 0, 0, 0, 0, 0, 0, 0, 0, 0, 0, 0, 0, 0, 0, 0, 0, 0, 0, 0, 0, 0, 0, 0, 0, 6, 0, 6, 0, 0, 6, 0, 0, 0, 0, 6, 6, 6, 0, 0, 0, 0, 0, 6, 6, 6, 0, 0, 0, 0, 6, 6, 6, 6, 6, 0, 0, 0, 6, 6, 6, 6, 6, 0,
-0, 0, 0, 0, 0, 0, 0, 0, 0, 0, 0, 0, 0, 0, 0, 0, 0, 0, 0, 0, 0, 0, 0, 0, 0, 0, 0, 0, 0, 0, 0, 0, 0, 0, 0, 0, 0, 0, 0, 0, 0, 0, 0, 0, 0, 0, 0, 0, 0, 0, 0, 0, 0, 0, 0, 0, 0, 0, 0, 0, 0, 0, 0, 0, 0, 0, 0, 0, 0, 0, 0, 0, 0, 0, 0, 0, 0, 0, 0, 0, 0, 0, 0, 0, 0, 0, 0, 0, 0, 6, 6, 6, 0, 0, 6, 6, 0, 0, 0, 0, 6, 0, 0, 0, 0, 0, 0, 0, 6, 0, 0, 0, 0, 0, 6, 6, 0, 6, 6, 0, 0, 0, 0, 6, 6, 6, 0, 0,
+0, 0, 0, 0, 0, 0, 0, 0, 6, 0, 0, 0, 6, 0, 6, 0, 0, 0, 0, 0, 0, 0, 0, 0, 0, 0, 0, 0, 0, 0, 0, 0, 0, 0, 0, 0, 0, 0, 0, 0, 0, 0, 0, 0, 0, 0, 0, 0, 0, 0, 0, 0, 0, 0, 0, 0, 0, 0, 0, 0, 0, 0, 0, 0, 0, 0, 0, 0, 0, 0, 0, 0, 0, 0, 0, 0, 0, 0, 0, 0, 6, 0, 0, 0, 6, 0, 6, 0, 0, 0, 0, 0, 0, 0, 0, 0, 0, 0, 0, 0, 0, 0, 0, 0, 0, 0, 0, 0, 0, 0, 0, 0, 0, 0, 0, 0, 0, 0, 0, 0, 0, 0, 0, 0, 0, 0, 0, 0,
+0, 0, 0, 0, 0, 0, 0, 0, 6, 6, 6, 0, 6, 6, 0, 0, 0, 0, 0, 0, 0, 0, 0, 0, 0, 0, 0, 0, 0, 0, 0, 0, 0, 0, 0, 0, 0, 0, 0, 0, 0, 0, 0, 0, 0, 0, 0, 0, 0, 0, 0, 0, 0, 0, 0, 0, 0, 0, 0, 0, 0, 0, 0, 0, 0, 0, 0, 0, 0, 0, 0, 0, 0, 0, 0, 0, 0, 0, 0, 0, 6, 6, 6, 0, 6, 6, 0, 0, 0, 0, 0, 0, 0, 0, 0, 0, 0, 0, 0, 0, 0, 0, 0, 0, 0, 0, 0, 0, 0, 0, 0, 0, 0, 0, 0, 0, 0, 0, 0, 0, 0, 0, 0, 0, 0, 0, 0, 0,
+0, 0, 0, 0, 0, 0, 0, 0, 6, 6, 6, 0, 6, 0, 6, 0, 0, 0, 0, 0, 0, 0, 0, 0, 0, 0, 0, 0, 0, 0, 0, 0, 0, 0, 0, 0, 0, 0, 0, 0, 0, 0, 0, 0, 0, 0, 0, 0, 0, 0, 0, 0, 0, 0, 0, 0, 0, 0, 0, 0, 0, 0, 0, 0, 0, 0, 0, 0, 0, 0, 0, 0, 0, 0, 0, 0, 0, 0, 0, 0, 6, 6, 6, 0, 6, 0, 6, 0, 0, 0, 0, 0, 0, 0, 0, 0, 0, 0, 0, 0, 0, 0, 0, 0, 0, 0, 0, 0, 0, 0, 0, 0, 0, 0, 0, 0, 0, 0, 0, 0, 0, 0, 0, 0, 0, 0, 0, 0,
+0, 0, 0, 0, 0, 0, 0, 0, 6, 6, 6, 0, 6, 0, 0, 0, 0, 0, 0, 0, 0, 0, 0, 0, 0, 0, 0, 0, 0, 0, 0, 0, 0, 0, 0, 0, 0, 0, 0, 0, 0, 0, 0, 0, 0, 0, 0, 0, 0, 0, 0, 0, 0, 0, 0, 0, 0, 0, 0, 0, 0, 0, 0, 0, 0, 0, 0, 0, 0, 0, 0, 0, 0, 0, 0, 0, 0, 0, 0, 0, 6, 6, 6, 0, 6, 0, 0, 0, 0, 0, 0, 0, 0, 0, 0, 0, 0, 0, 0, 0, 0, 0, 0, 0, 0, 0, 0, 0, 0, 0, 0, 0, 0, 0, 0, 0, 0, 0, 0, 0, 0, 0, 0, 0, 0, 0, 0, 0,
+0, 0, 0, 0, 0, 0, 0, 0, 6, 6, 0, 6, 6, 0, 0, 0, 0, 0, 0, 0, 0, 0, 0, 0, 0, 0, 0, 0, 0, 0, 0, 0, 0, 0, 0, 0, 0, 0, 0, 0, 0, 0, 0, 0, 0, 0, 0, 0, 0, 0, 0, 0, 0, 0, 0, 0, 0, 0, 0, 0, 0, 0, 0, 0, 0, 0, 0, 0, 0, 0, 0, 0, 0, 0, 0, 0, 0, 0, 0, 0, 6, 6, 0, 6, 6, 0, 0, 0, 0, 0, 0, 0, 0, 0, 0, 0, 0, 0, 0, 0, 0, 0, 0, 0, 0, 0, 0, 0, 0, 0, 0, 0, 0, 0, 0, 0, 0, 0, 0, 0, 0, 0, 0, 0, 0, 0, 0, 0,
+0, 0, 0, 0, 0, 0, 0, 0, 6, 6, 0, 6, 6, 6, 6, 0, 0, 0, 0, 0, 0, 0, 0, 0, 0, 0, 0, 0, 0, 0, 0, 0, 0, 0, 0, 0, 0, 0, 0, 0, 0, 0, 0, 0, 0, 0, 0, 0, 0, 0, 0, 0, 0, 0, 0, 0, 0, 0, 0, 0, 0, 0, 0, 0, 0, 0, 0, 0, 0, 0, 0, 0, 0, 0, 0, 0, 0, 0, 0, 0, 6, 6, 0, 6, 6, 6, 6, 0, 0, 0, 0, 0, 0, 0, 0, 0, 0, 0, 0, 0, 0, 0, 0, 0, 0, 0, 0, 0, 0, 0, 0, 0, 0, 0, 0, 0, 0, 0, 0, 0, 0, 0, 0, 0, 0, 0, 0, 0,
+0, 0, 0, 0, 0, 0, 0, 0, 6, 6, 0, 6, 6, 6, 6, 0, 0, 0, 0, 0, 0, 0, 0, 0, 0, 0, 0, 0, 0, 0, 0, 0, 0, 0, 0, 0, 0, 0, 0, 0, 0, 0, 0, 0, 0, 0, 0, 0, 0, 0, 0, 0, 0, 0, 0, 0, 0, 0, 0, 0, 0, 0, 0, 0, 0, 0, 0, 0, 0, 0, 0, 0, 0, 0, 0, 0, 0, 0, 0, 0, 6, 6, 0, 6, 6, 6, 6, 0, 0, 0, 0, 0, 0, 0, 0, 0, 0, 0, 0, 0, 0, 0, 0, 0, 0, 0, 0, 0, 0, 0, 0, 0, 0, 0, 0, 0, 0, 0, 0, 0, 0, 0, 0, 0, 0, 0, 0, 0,
+0, 0, 0, 0, 0, 0, 0, 0, 6, 0, 0, 0, 6, 0, 0, 0, 0, 0, 0, 0, 0, 0, 0, 0, 0, 0, 0, 0, 0, 0, 0, 0, 0, 0, 0, 0, 0, 0, 0, 0, 0, 0, 0, 0, 0, 0, 0, 0, 0, 0, 0, 0, 0, 0, 0, 0, 0, 0, 0, 0, 0, 0, 0, 0, 0, 0, 0, 0, 0, 0, 0, 0, 0, 0, 0, 0, 0, 0, 0, 0, 6, 0, 0, 0, 6, 0, 0, 0, 0, 0, 0, 0, 0, 0, 0, 0, 0, 0, 0, 0, 0, 0, 0, 0, 0, 0, 0, 0, 0, 0, 0, 0, 0, 0, 0, 0, 0, 0, 0, 0, 0, 0, 0, 0, 0, 0, 0, 0,
+0, 0, 0, 0, 0, 0, 0, 0, 0, 0, 0, 0, 0, 0, 0, 0, 0, 0, 0, 0, 0, 0, 0, 0, 0, 0, 0, 0, 0, 0, 0, 0, 0, 0, 0, 0, 0, 0, 0, 0, 0, 0, 0, 0, 0, 0, 0, 0, 0, 0, 0, 0, 0, 0, 0, 0, 0, 0, 0, 0, 0, 0, 0, 0, 0, 0, 0, 0, 0, 0, 0, 0, 0, 0, 0, 0, 0, 0, 0, 0, 6, 0, 0, 0, 6, 0, 6, 0, 0, 0, 0, 0, 0, 0, 0, 0, 0, 0, 0, 0, 0, 0, 0, 0, 0, 0, 0, 0, 0, 0, 0, 0, 0, 0, 0, 0, 0, 0, 0, 0, 0, 0, 0, 0, 0, 0, 0, 0,
+0, 0, 0, 0, 0, 0, 0, 0, 0, 0, 0, 0, 0, 0, 0, 0, 0, 0, 0, 0, 0, 0, 0, 0, 0, 0, 0, 0, 0, 0, 0, 0, 0, 0, 0, 0, 0, 0, 0, 0, 0, 0, 0, 0, 0, 0, 0, 0, 0, 0, 0, 0, 0, 0, 0, 0, 0, 0, 0, 0, 0, 0, 0, 0, 0, 0, 0, 0, 0, 0, 0, 0, 0, 0, 0, 0, 0, 0, 0, 0, 6, 6, 6, 0, 6, 6, 0, 0, 0, 0, 0, 0, 0, 0, 0, 0, 0, 0, 0, 0, 0, 0, 0, 0, 0, 0, 0, 0, 0, 0, 0, 0, 0, 0, 0, 0, 0, 0, 0, 0, 0, 0, 0, 0, 0, 0, 0, 0,
+0, 0, 0, 0, 0, 0, 0, 0, 0, 0, 0, 0, 0, 0, 0, 0, 0, 0, 0, 0, 0, 0, 0, 0, 0, 0, 0, 0, 0, 0, 0, 0, 0, 0, 0, 0, 0, 0, 0, 0, 0, 0, 0, 0, 0, 0, 0, 0, 0, 0, 0, 0, 0, 0, 0, 0, 0, 0, 0, 0, 0, 0, 0, 0, 0, 0, 0, 0, 0, 0, 0, 0, 0, 0, 0, 0, 0, 0, 0, 0, 6, 6, 6, 0, 6, 0, 6, 0, 0, 0, 0, 0, 0, 0, 0, 0, 0, 0, 0, 0, 0, 0, 0, 0, 0, 0, 0, 0, 0, 0, 0, 0, 0, 0, 0, 0, 0, 0, 0, 0, 0, 0, 0, 0, 0, 0, 0, 0,
+0, 0, 0, 0, 0, 0, 0, 0, 0, 0, 0, 0, 0, 0, 0, 0, 0, 0, 0, 0, 0, 0, 0, 0, 0, 0, 0, 0, 0, 0, 0, 0, 0, 0, 0, 0, 0, 0, 0, 0, 0, 0, 0, 0, 0, 0, 0, 0, 0, 0, 0, 0, 0, 0, 0, 0, 0, 0, 0, 0, 0, 0, 0, 0, 0, 0, 0, 0, 0, 0, 0, 0, 0, 0, 0, 0, 0, 0, 0, 0, 6, 6, 6, 0, 6, 0, 0, 0, 0, 6, 6, 6, 0, 6, 6, 6, 0, 0, 0, 6, 6, 6, 0, 0, 0, 0, 0, 0, 6, 0, 0, 0, 0, 0, 0, 0, 6, 0, 0, 0, 0, 0, 0, 6, 6, 6, 0, 0,
+0, 0, 0, 0, 0, 0, 0, 0, 0, 0, 0, 0, 0, 0, 0, 0, 0, 0, 0, 0, 0, 0, 0, 0, 0, 0, 0, 0, 0, 0, 0, 0, 0, 0, 0, 0, 0, 0, 0, 0, 0, 0, 0, 0, 0, 0, 0, 0, 0, 0, 0, 0, 0, 0, 0, 0, 0, 0, 0, 0, 0, 0, 0, 0, 0, 0, 0, 0, 0, 0, 0, 0, 0, 0, 0, 0, 0, 0, 0, 0, 6, 6, 0, 6, 6, 0, 0, 0, 0, 6, 0, 6, 0, 0, 6, 0, 0, 0, 0, 0, 6, 0, 0, 0, 0, 0, 0, 6, 6, 6, 0, 0, 0, 0, 0, 6, 6, 6, 0, 0, 0, 0, 0, 0, 6, 0, 0, 0,
+0, 0, 0, 0, 0, 0, 0, 0, 0, 0, 0, 0, 0, 0, 0, 0, 0, 0, 0, 0, 0, 0, 0, 0, 0, 0, 0, 0, 0, 0, 0, 0, 0, 0, 0, 0, 0, 0, 0, 0, 0, 0, 0, 0, 0, 0, 0, 0, 0, 0, 0, 0, 0, 0, 0, 0, 0, 0, 0, 0, 0, 0, 0, 0, 0, 0, 0, 0, 0, 0, 0, 0, 0, 0, 0, 0, 0, 0, 0, 0, 6, 6, 0, 6, 6, 6, 6, 0, 0, 6, 0, 6, 0, 0, 6, 0, 0, 0, 6, 6, 6, 6, 6, 0, 0, 0, 6, 6, 6, 6, 6, 0, 0, 0, 6, 6, 6, 6, 6, 0, 0, 0, 6, 6, 0, 6, 6, 0,
+0, 0, 0, 0, 0, 0, 0, 0, 0, 0, 0, 0, 0, 0, 0, 0, 0, 0, 0, 0, 0, 0, 0, 0, 0, 0, 0, 0, 0, 0, 0, 0, 0, 0, 0, 0, 0, 0, 0, 0, 0, 0, 0, 0, 0, 0, 0, 0, 0, 0, 0, 0, 0, 0, 0, 0, 0, 0, 0, 0, 0, 0, 0, 0, 0, 0, 0, 0, 0, 0, 0, 0, 0, 0, 0, 0, 0, 0, 0, 0, 6, 6, 0, 6, 6, 6, 6, 0, 0, 6, 0, 6, 0, 0, 6, 0, 0, 0, 0, 6, 6, 6, 0, 0, 0, 0, 0, 6, 6, 6, 0, 0, 0, 0, 6, 6, 6, 6, 6, 0, 0, 0, 6, 6, 6, 6, 6, 0,
+0, 0, 0, 0, 0, 0, 0, 0, 0, 0, 0, 0, 0, 0, 0, 0, 0, 0, 0, 0, 0, 0, 0, 0, 0, 0, 0, 0, 0, 0, 0, 0, 0, 0, 0, 0, 0, 0, 0, 0, 0, 0, 0, 0, 0, 0, 0, 0, 0, 0, 0, 0, 0, 0, 0, 0, 0, 0, 0, 0, 0, 0, 0, 0, 0, 0, 0, 0, 0, 0, 0, 0, 0, 0, 0, 0, 0, 0, 0, 0, 6, 0, 0, 0, 6, 0, 0, 0, 0, 6, 6, 6, 0, 0, 6, 6, 0, 0, 0, 0, 6, 0, 0, 0, 0, 0, 0, 0, 6, 0, 0, 0, 0, 0, 6, 6, 0, 6, 6, 0, 0, 0, 0, 6, 6, 6, 0, 0,
 0, 0, 0, 0, 0, 0, 0, 0, 0, 0, 0, 0, 0, 0, 0, 0, 0, 0, 0, 0, 0, 0, 0, 0, 0, 0, 0, 0, 0, 0, 0, 0, 0, 0, 0, 0, 0, 0, 0, 0, 0, 0, 0, 0, 0, 0, 0, 0, 0, 0, 0, 0, 0, 0, 0, 0, 0, 0, 0, 0, 0, 0, 0, 0, 0, 0, 0, 0, 0, 0, 0, 0, 0, 0, 0, 0, 0, 0, 0, 0, 0, 0, 0, 0, 0, 0, 0, 0, 0, 0, 0, 0, 0, 0, 0, 0, 0, 0, 0, 0, 0, 0, 0, 0, 0, 0, 0, 0, 0, 0, 0, 0, 0, 0, 0, 0, 0, 0, 0, 0, 0, 0, 0, 0, 0, 0, 0, 0,
 0, 0, 0, 0, 0, 0, 0, 0, 0, 0, 0, 0, 0, 0, 0, 0, 0, 0, 0, 0, 0, 0, 0, 0, 0, 0, 0, 0, 0, 0, 0, 0, 0, 0, 0, 0, 0, 0, 0, 0, 0, 0, 0, 0, 0, 0, 0, 0, 0, 0, 0, 0, 0, 0, 0, 0, 0, 0, 0, 0, 0, 0, 0, 0, 0, 0, 0, 0, 0, 0, 0, 0, 0, 0, 0, 0, 0, 0, 0, 0, 0, 0, 0, 0, 0, 0, 0, 0, 0, 0, 0, 0, 0, 0, 0, 0, 0, 0, 0, 0, 0, 0, 0, 0, 0, 0, 0, 0, 0, 0, 0, 0, 0, 0, 0, 0, 0, 0, 0, 0, 0, 0, 0, 0, 0, 0, 0, 0,
 0, 0, 0, 0, 0, 0, 0, 0, 0, 0, 0, 0, 0, 0, 0, 0, 0, 0, 0, 0, 0, 0, 0, 0, 0, 0, 0, 0, 0, 0, 0, 0, 0, 0, 0, 0, 0, 0, 0, 0, 0, 0, 0, 0, 0, 0, 0, 0, 0, 0, 0, 0, 0, 0, 0, 0, 0, 0, 0, 0, 0, 0, 0, 0, 0, 0, 0, 0, 0, 0, 0, 0, 0, 0, 0, 0, 0, 0, 0, 0, 0, 0, 0, 0, 0, 0, 0, 0, 0, 0, 0, 0, 0, 0, 0, 0, 0, 0, 0, 0, 0, 0, 0, 0, 0, 0, 0, 0, 0, 0, 0, 0, 0, 0, 0, 0, 0, 0, 0, 0, 0, 0, 0, 0, 0, 0, 0, 0,

diff --git a/tooling/update_gfx/src/main.rs b/tooling/update_gfx/src/main.rs
@@ -4,7 +4,9 @@ extern crate png;
 use std::fs::File;
 use std::io::prelude::*;
 
-const IMAGE_FILENAME: &'static str = "../../assets/gfx.png";
+//const IMAGE_FILENAME: &'static str = "../../assets/gfx.png";
+// for relatively rare font extension
+const IMAGE_FILENAME: &'static str = "../../assets/font.png";
 // for testing
 // const IMAGE_FILENAME: &'static str = "assets/pallete.png";
 
@@ -12,7 +14,8 @@ fn main() -> Result<(), Box<std::error::Error>> {
     let decoder = png::Decoder::new(File::open(IMAGE_FILENAME)?);
     let (info, mut reader) = decoder.read_info()?;
     println!(
-        "{:?}",
+        "{} : {:?}",
+        IMAGE_FILENAME,
         (
             info.width,
             info.height,
@@ -45,6 +48,7 @@ fn main() -> Result<(), Box<std::error::Error>> {
 
     for colour in buf.chunks(pixel_width) {
         let index = match (colour[0], colour[1], colour[2]) {
+            //pallete
             (51, 82, 225) => 0,
             (48, 176, 110) => 1,
             (222, 73, 73) => 2,
@@ -53,6 +57,9 @@ fn main() -> Result<(), Box<std::error::Error>> {
             (90, 125, 139) => 5,
             (238, 238, 238) => 6,
             (34, 34, 34) => 7,
+            //map pure white and black to closest pallete colours
+            (255, 255, 255) => 6,
+            (0, 0, 0) => 7,
             _ => 255,
         };
 

diff --git a/design/font.md b/design/font.md
@@ -10,4 +10,14 @@ Once the suits were characters, I then wanted to render rotated-upside-down char
 
 The 10 character was done mostly as a convenience so the card rending code was simpler. I could have gone with "T" or some other single character but that just looks weird, and is hard to parse visually for those used to the standard deck.
 
-Back to the 5x5 fonts. We want to have suit-rank character pairs in order to tersely represent cards within text. The other characters are 4x5, (including the horizontal spacing column) so while vertically there are no problems, there are some horizontally. If numbers as suits are laid out next to each other using the same layout the characters collide and it does not look good. Ideally, we want the font layout to be as simple as possible, so some visual degradation would tolerable, but the characters touching as unattractively as they do is not acceptable.
+Back to the 5x5 fonts. We want to have rank-suit character pairs in order to tersely represent cards within text. The other characters are 4x5, (including the horizontal spacing column) so while vertically there are no problems, there are some horizontally. If numbers as suits are laid out next to each other using the same layout the characters collide and it does not look good. Ideally, we want the font layout to be as simple as possible, so some visual degradation would tolerable, but the characters touching as unattractively as they do is not acceptable.
+
+So we need a way to indicate that the next characters need to be laid out in a special way. Since we are requiring more space, using a special character that will not be displayed to indicate the layout change means that he length of a string in bytes still directly indicates how wide it will be. Again, for simplicity's sake, we would like to not have to care which characters are in the byte stream when rendering them, as much as we can, so even though this only makes sense for number suit pairs, we can just go ahead and treat any characters we see after the special one the same as we would rank-suit pairs. 
+
+Another complication is the special 10 character is double wide, so since 4 + 4 + 5 > 3 * 4, if we want the pairs to have a consistent width, (which for simplicity's sake we do,) we need each pair to take up 4 characters. So since we need an extra character, the simplest thing to do is just consume the 4th character and do nothing with it. We can assign meaning to it later if we want to, (maybe rendering the preceding characters in a certain colour?)
+
+So if  we denote the special control character C, the rank-suit pair as RS and the ignored character as X, then to display a pair nicely spaced within 16 pixels, we simply insert "CRSX" into the string.
+
+Since we do not want to forget which characters we are re-purposing, we should label them in the font. That way we know they are taken, the next time we look at the font to decide which byte value to use. While we're at it we should label the newline, since we are using that one as well. 
+
+For all the different control purposes we might put byte values into in the future, we only need one glyph for the purpose of marking a value as used. Even though I'm not sure when we would ever really need to do so, it seems like a reasonable idea to reserve a byte value for displaying that glyph without any special handling. Byte 0x1 seems like a good one for tis purpose. Similarly, we might as well reserve the flipped version of that glyph, and the flipped versions of the control characters as well. We might even consider treating the flipped control characters like their non flipped counterparts if we ever do anything extensive with flipped text, just so we don't have to think about it.
